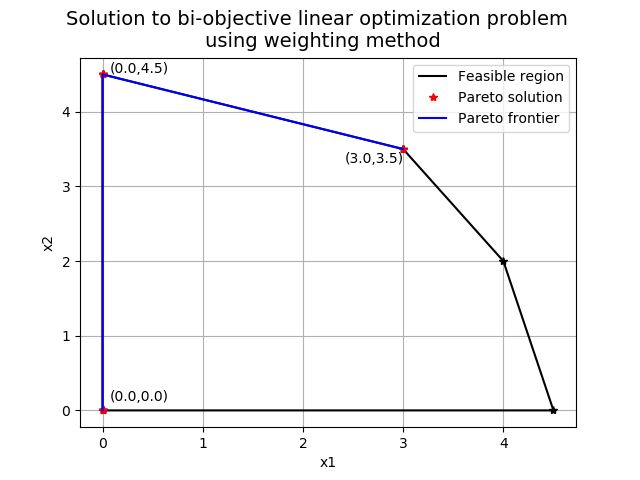
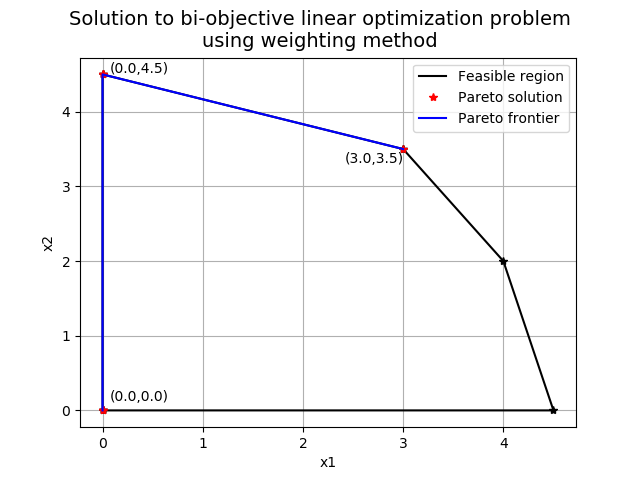
added goal programming

Changed region(s): [[0.0938, 0.0, 0.9062, 0.125]]

diff --git a/P2/functions.py b/P2/functions.py
@@ -29,7 +29,6 @@ def feasPlotx( A, B, x1, x2):
     Feas2 = np.array(Feas2)
     ax.plot(Feas1[s],Feas2[s],'*k')
     ax.plot(Feas1[s],Feas2[s],'k', linewidth=1.5, label = 'Feasible region')
-    fig.suptitle('Solution to bi-objective linear optimization problem \n using weighting method', fontsize=14)
     ax.set_xlabel('x1')
     ax.set_ylabel('x2')
     ax.grid(True)
@@ -67,16 +66,67 @@ def feasPlotz( obj_arr, Feas1, Feas2):
 
     '''
     
-    #s = np.argsort(abs(Feasz1))
-    #print(s)
-    #s = np.append(s,0)
     s = [0, 1, 7, 5, 4, 6, 2, 3, 0]
     ax.plot(Feasz1[s],Feasz2[s],'*k')
     ax.plot(Feasz1[s],Feasz2[s],'k', linewidth=1.5, label = 'Feasible region')
-    fig.suptitle('Objectives values to bi-objective linear optimization problem \n using weighting method', fontsize=14)
     ax.set_xlabel('obj1')
     ax.set_ylabel('obj2')
     ax.grid(True)
     #plt.savefig('test2.png')
     #print([Feasz1[s],Feasz2[s]])
     return (fig, ax, Feasz1, Feasz2)
+
+def Plots(c_arr, obj_arr, x1, x2, z1, z2, text):
+    a = np.array(c_arr[:,[0,1]], dtype='float')
+    b = np.array(c_arr[:,3], dtype='float')
+    fig1, ax1, Feas1, Feas2 = feasPlotx(a,b,x1,x2)
+
+    fig1.suptitle('Solution to bi-objective linear optimization problem' + '\n' + 'using ' + str(text) + ' method', fontsize=14)
+    ax1.plot(x1,x2,'*r', label = 'Pareto solution')
+    ax1.plot(x1,x2,'b', label = 'Pareto frontier')
+    plt.legend()
+
+
+    label = "(" + "{:.1f}".format(x1[0]) + "," + "{:.1f}".format(x2[0]) + ")"
+    plt.annotate(label, # this is the text
+                (x1[0],x2[0]), # this is the point to label
+                textcoords="offset points", # how to position the text
+                xytext=(5,7)) # distance from text to points (x,y)
+    label = "(" + "{:.1f}".format(x1[2]) + "," + "{:.1f}".format(x2[2]) + ")"
+    plt.annotate(label, # this is the text
+                (x1[2],x2[2]), # this is the point to label
+                textcoords="offset points", # how to position the text
+                xytext=(5,1)) # distance from text to points (x,y)
+    label = "(" + "{:.1f}".format(x1[4]) + "," + "{:.1f}".format(x2[4]) + ")"
+    plt.annotate(label, # this is the text
+                (x1[4],x2[4]), # this is the point to label
+                textcoords="offset points", # how to position the text
+                xytext=(-42,-10)) # distance from text to points (x,y)
+
+    plt.savefig('pareto_' + str(text) + '_x.png')
+
+    fig2, ax2, Feasz1, Feasz2 = feasPlotz(obj_arr, Feas1, Feas2)
+
+    fig2.suptitle('Objectives values to bi-objective linear optimization problem' + '\n' + 'using ' + str(text) + ' method', fontsize=14)
+    ax2.plot(z1,z2,'*r', label = 'Pareto solution')
+    ax2.plot(z1,z2,'b', label = 'Pareto frontier')
+    plt.legend()
+
+    label = "(" + "{:.1f}".format(z1[0]) + "," + "{:.1f}".format(z2[0]) + ")"
+    plt.annotate(label, # this is the text
+                (z1[0],z2[0]), # this is the point to label
+                textcoords="offset points", # how to position the text
+                xytext=(-50,-5)) # distance from text to points (x,y)
+    label = "(" + "{:.1f}".format(z1[2]) + "," + "{:.1f}".format(z2[2]) + ")"
+    plt.annotate(label, # this is the text
+                (z1[2],z2[2]), # this is the point to label
+                textcoords="offset points", # how to position the text
+                xytext=(5,0)) # distance from text to points (x,y)
+    label = "(" + "{:.1f}".format(z1[4]) + "," + "{:.1f}".format(z2[4]) + ")"
+    plt.annotate(label, # this is the text
+                (z1[4],z2[4]), # this is the point to label
+                textcoords="offset points", # how to position the text
+                xytext=(5,-20)) # distance from text to points (x,y)
+
+    plt.savefig('pareto_' + str(text) + '_z.png')
+

diff --git a/P2/main_goal.py b/P2/main_goal.py
@@ -1,5 +1,3 @@
-# P2: Bi-Objective linear optimization problem Weighting method
-
 import csv
 import pandas
 import os
@@ -19,31 +17,55 @@ if ('constraints.csv' in files)==False or ('objectives.csv' in files)==False:
 obj_file = pandas.read_csv('objectives.csv')
 c_file = pandas.read_csv('constraints.csv')
 A = obj_file.columns.tolist()
-B = len(obj_file)
+B = sum(1 for line in obj_file)
 print(obj_file)
 print(c_file)
 print(A)
 print(B)
-
+x1 = []
+x2 = []
+z1 = []
+z2 = []
 
 # Create the model
 model = ConcreteModel()
 model.x = Var( A, within = NonNegativeReals)
 model.c = ConstraintList()
+opt = SolverFactory('glpk')
 for j in range(len(c_file)):
     model.c.add(expr = (None, sum(model.x[i]*c_file[i][j] for i in A), c_file['UB'][j]))
+# Define the objectives
 
-# Define the objective function varing weights and solve each problem
-x1 = []
-x2 = []
-z1 = []
-z2 = []
+model.obj_1 = Objective(
+    expr = sum(model.x[i]*obj_file[i][0]for i in A), sense = minimize)
+model.obj_2 = Objective(
+    expr = sum(model.x[i]*obj_file[i][1]for i in A), sense = minimize)
+
+model.obj_1.activate()
+model.obj_2.deactivate()
+results1 = opt.solve(model)
+
+mu1g = value(model.x['x1'])*value(obj_file['x1'][0])+value(model.x['x2'])*value(obj_file['x2'][0])
+mu2b = value(model.x['x1'])*value(obj_file['x1'][1])+value(model.x['x2'])*value(obj_file['x2'][1])
+
+model.obj_2.activate()
+model.obj_1.deactivate()
+results2 = opt.solve(model)
+
+mu1b = value(model.x['x1'])*value(obj_file['x1'][0])+value(model.x['x2'])*value(obj_file['x2'][0])
+mu2g = value(model.x['x1'])*value(obj_file['x1'][1])+value(model.x['x2'])*value(obj_file['x2'][1])
+
+print(mu1g)
+print(mu1b)
+print(mu2g)
+print(mu2b)
+
+model.obj_2.deactivate()
 for z in np.linspace(0,1,5):
     w=[z,1-z]
     model.obj = Objective(
-        expr = sum(model.x[i]*obj_file[i][j]*w[j] for i in A for j in range(B)), sense = minimize)
+        expr = (obj_file['x1'][0]*model.x['x1']+obj_file['x2'][0]*model.x['x2']-mu1g)/(mu1b-mu1g)*w[0] + (obj_file['x1'][1]*model.x['x1']+obj_file['x2'][1]*model.x['x2'])/(mu2b-mu2g)*w[1], sense = minimize)
     
-    opt = SolverFactory('glpk')
     results = opt.solve(model)
     x1.append(value(model.x['x1']))
     x2.append(value(model.x['x2']))
@@ -52,12 +74,16 @@ for z in np.linspace(0,1,5):
     model.del_component(model.obj)
 
 print(x1)
+print(x2)
+print(z1)
+print(z2)
+
 c_arr = np.array(c_file)
 obj_arr = np.array(obj_file)
-Plots(c_arr, obj_arr, x1, x2, z1, z2, 'weighting')
+Plots(c_arr, obj_arr, x1, x2, z1, z2, 'goal programming')
 
 # Write the results of the Pareto Frontier to a file
-with open('results_weighting.txt',mode='w') as results_file:
+with open('results_goal.txt',mode='w') as results_file:
     results_file.write('Variable x\n\n')
     results_file.write('   x1 = ' + str(x1) + '\n\n')
     results_file.write('   x2 = ' + str(x2) + '\n\n')
@@ -66,5 +92,4 @@ with open('results_weighting.txt',mode='w') as results_file:
 
 res = {'x1':x1,'x2':x2,'z1':z1,'z2':z2}
 df = pandas.DataFrame(res, columns=["x1","x2","z1","z2"])
-df.to_csv(r'results_weighting.csv', index=False, header=True)
-    
+df.to_csv(r'results_goal.csv', index=False, header=True)

diff --git a/P2/File.py b/P2/File.py
@@ -1,0 +1,87 @@
+import csv
+import pandas
+import os
+import fnmatch
+import numpy as np
+import matplotlib.pyplot as plt
+from pyomo.environ import *
+
+# Check if data for the objective functions and constraints exists, if not it creates them
+files = os.listdir()
+if ('constraints.csv' in files)==False or ('objectives.csv' in files)==False:
+    with open("dataCreator.py", mode='r') as dataCreator:
+        exec(dataCreator.read())
+
+# Read the values of the objective functions and constraints
+obj_file = pandas.read_csv('objectives.csv')
+c_file = pandas.read_csv('constraints.csv')
+A = obj_file.columns.tolist()
+B = sum(1 for line in obj_file)
+print(obj_file)
+print(c_file)
+print(A)
+print(B)
+
+# Create the model
+model = ConcreteModel()
+model.x = Var( A, within = NonNegativeReals)
+model.c = ConstraintList()
+for j in range(len(c_file)):
+ model.c.add(expr = (None, sum(model.x[i]*c_file[i][j] for i in A), c_file['UB'][j]))
+# Define the objectives
+
+ model.obj_1 = Objective(
+    expr = sum(model.x[i]*obj_file[i][0]for i in A), sense = minimize)
+ model.obj_2 = Objective(
+    expr = sum(model.x[i]*obj_file[i][1]for i in A), sense = minimize)
+
+model.obj_1.activate()
+model.obj_2.deactivate()
+
+# Creo il solver e risolvo il problema
+opt = SolverFactory('glpk')
+results = opt.solve(model, tee=True)
+results.write()
+model.solutions.load_from(results)
+
+with open('results.txt',mode='w') as results_file:
+    for v in model.component_objects(Var, active=True):
+        results_file.write('Variable ' + str(v) + '\n')
+        varobject = getattr(model, str(v))
+        for index in varobject:
+            results_file.write('   '+str(index) + ' = ' + str(varobject[index].value) + '\n')
+            
+
+model.obj_2.activate()
+model.obj_1.deactivate()
+
+opt2 = SolverFactory('glpk')
+results2 = opt2.solve(model, tee=True)
+results2.write()
+model.solutions.load_from(results2)
+with open('results2.txt',mode='w') as results2_file:
+    for v in model.component_objects(Var, active=True):
+        results2_file.write('Variable ' + str(v) + '\n')
+        varobject2 = getattr(model, str(v))
+        for index2 in varobject2:
+            results2_file.write('   '+str(index2) + ' = ' + str(varobject2[index2].value) + '\n')
+            
+file = open('results.txt', 'r')
+variabili = file.readlines()
+x=[None]*len(variabili)
+for i in range(1,len(variabili)):
+      x[i] = float(variabili[i][8:])
+x.remove(None)
+file2=open('objectives.csv','r')
+coeff=file2.readlines()
+A1=[None]*len(coeff)
+for j in range(0,len(coeff),2):
+    A1[j]=float(coeff[2][j])
+A1.remove(None)
+for k in range (len(A1)):
+    C=sum(x[k]*A1[k])
+print(C)
+
+
+
+
